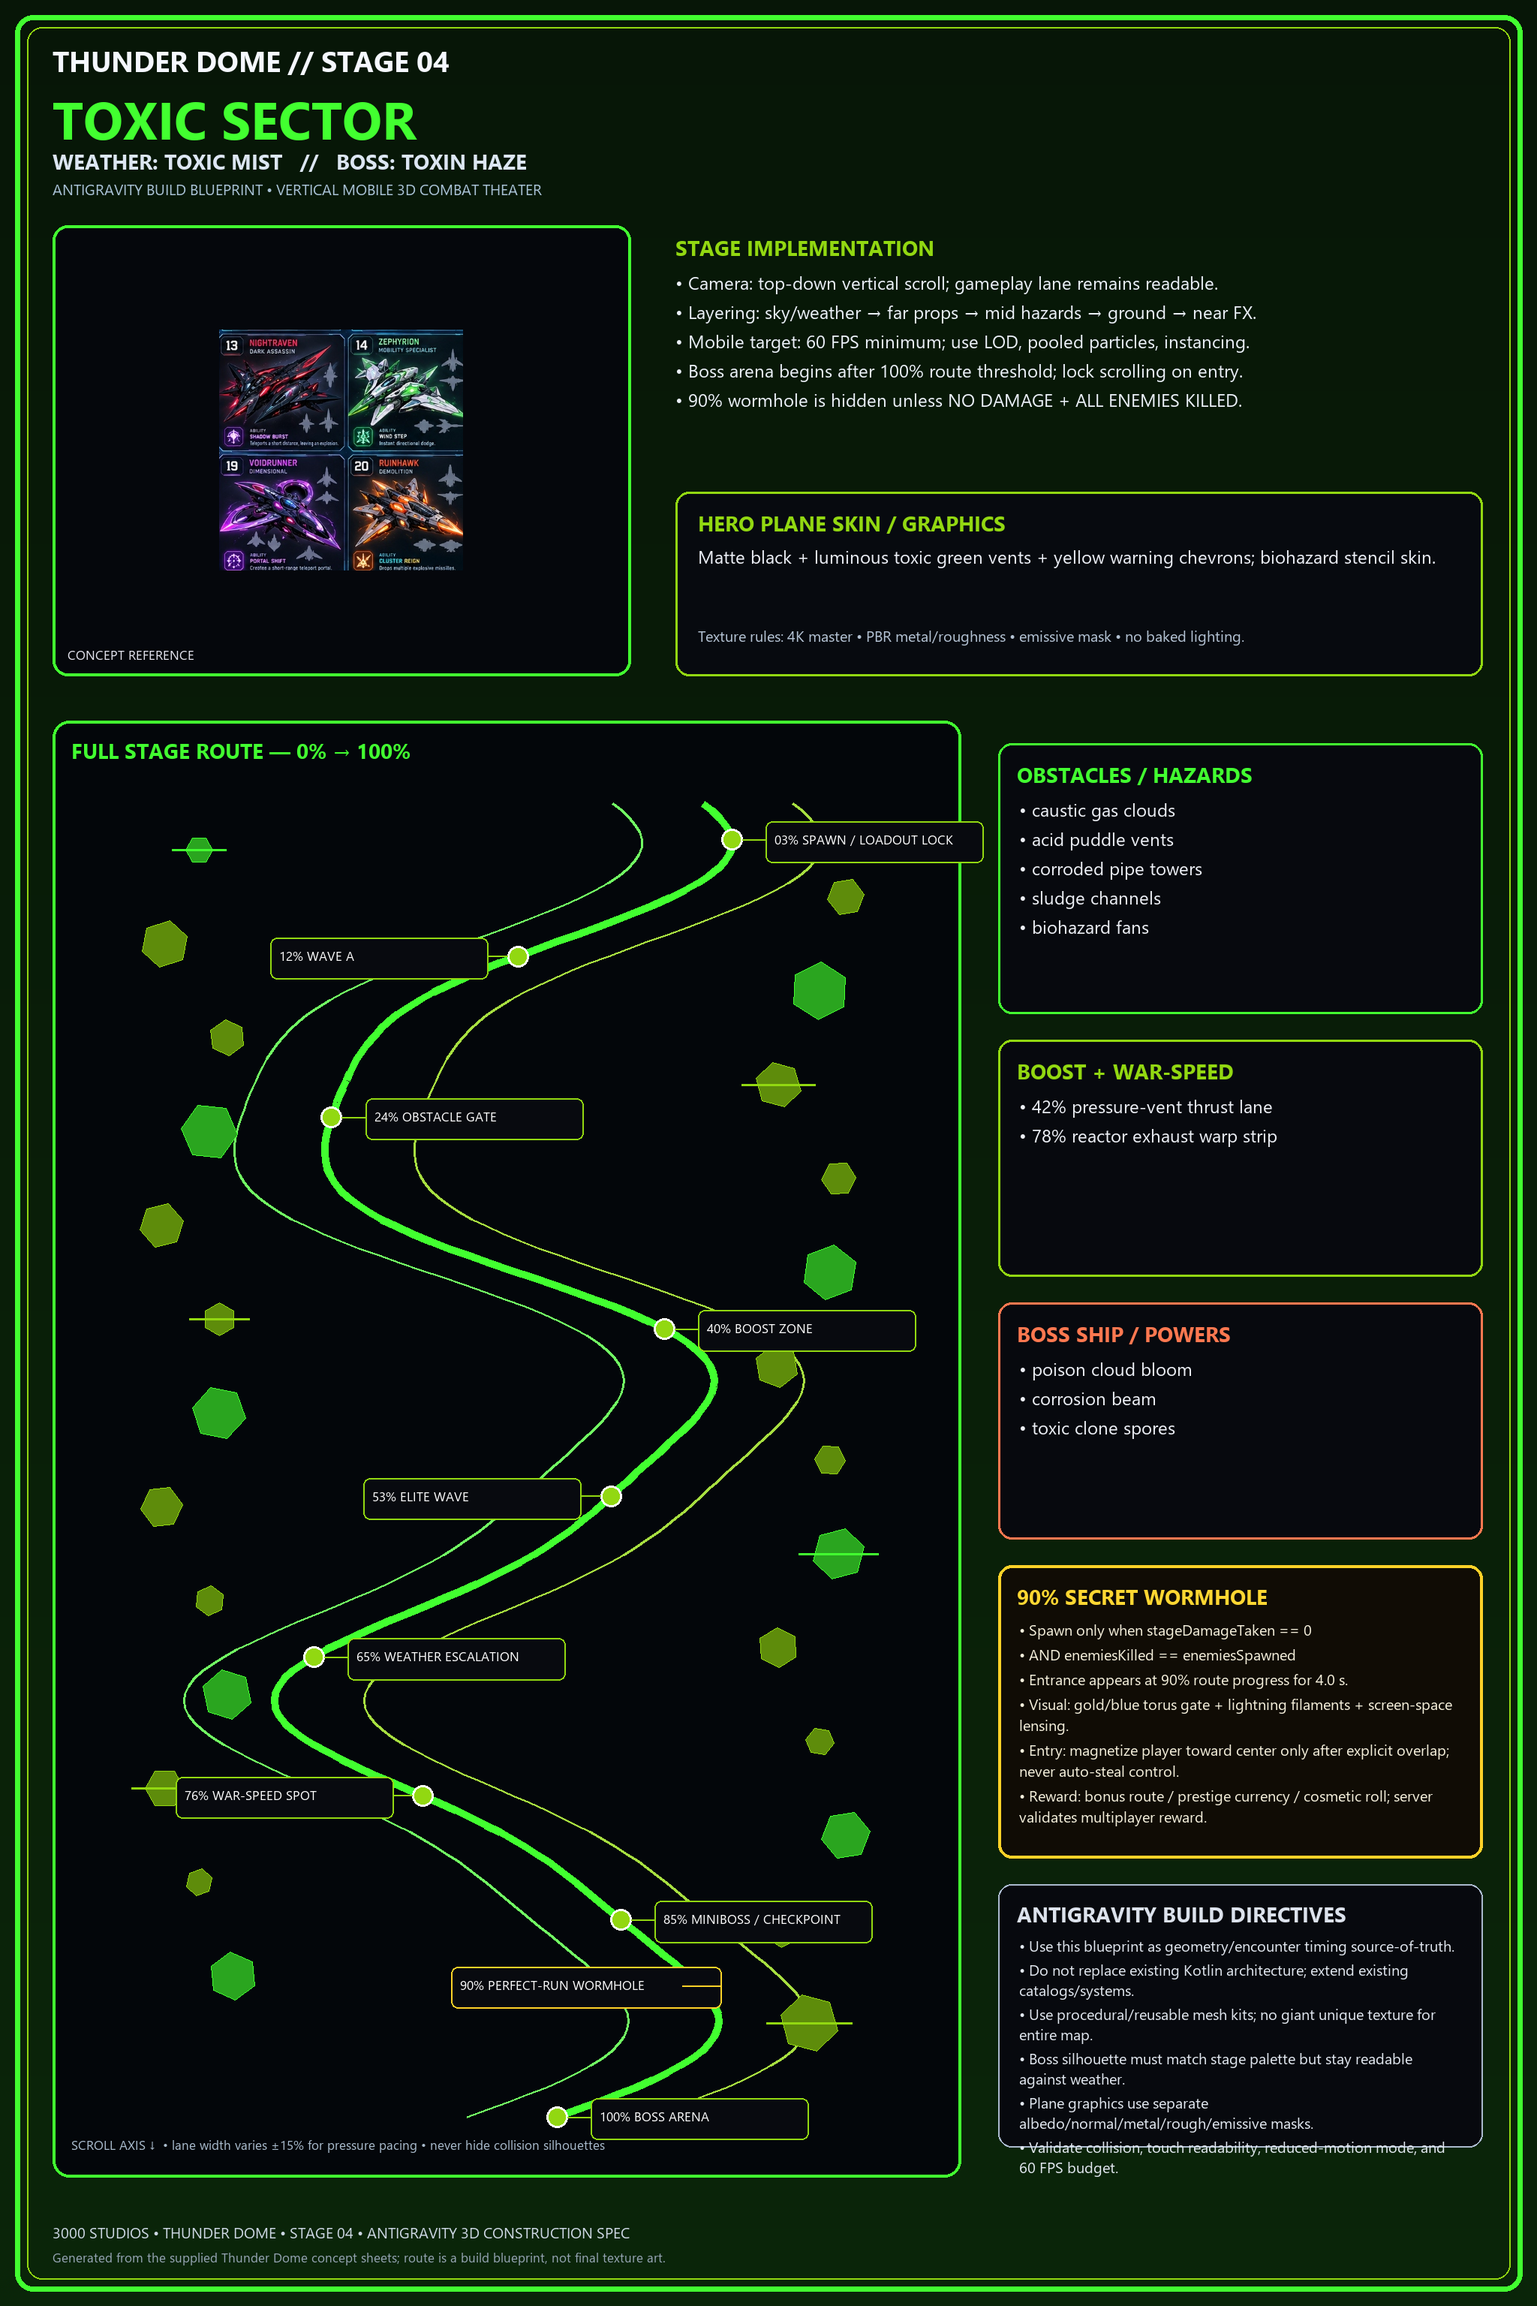
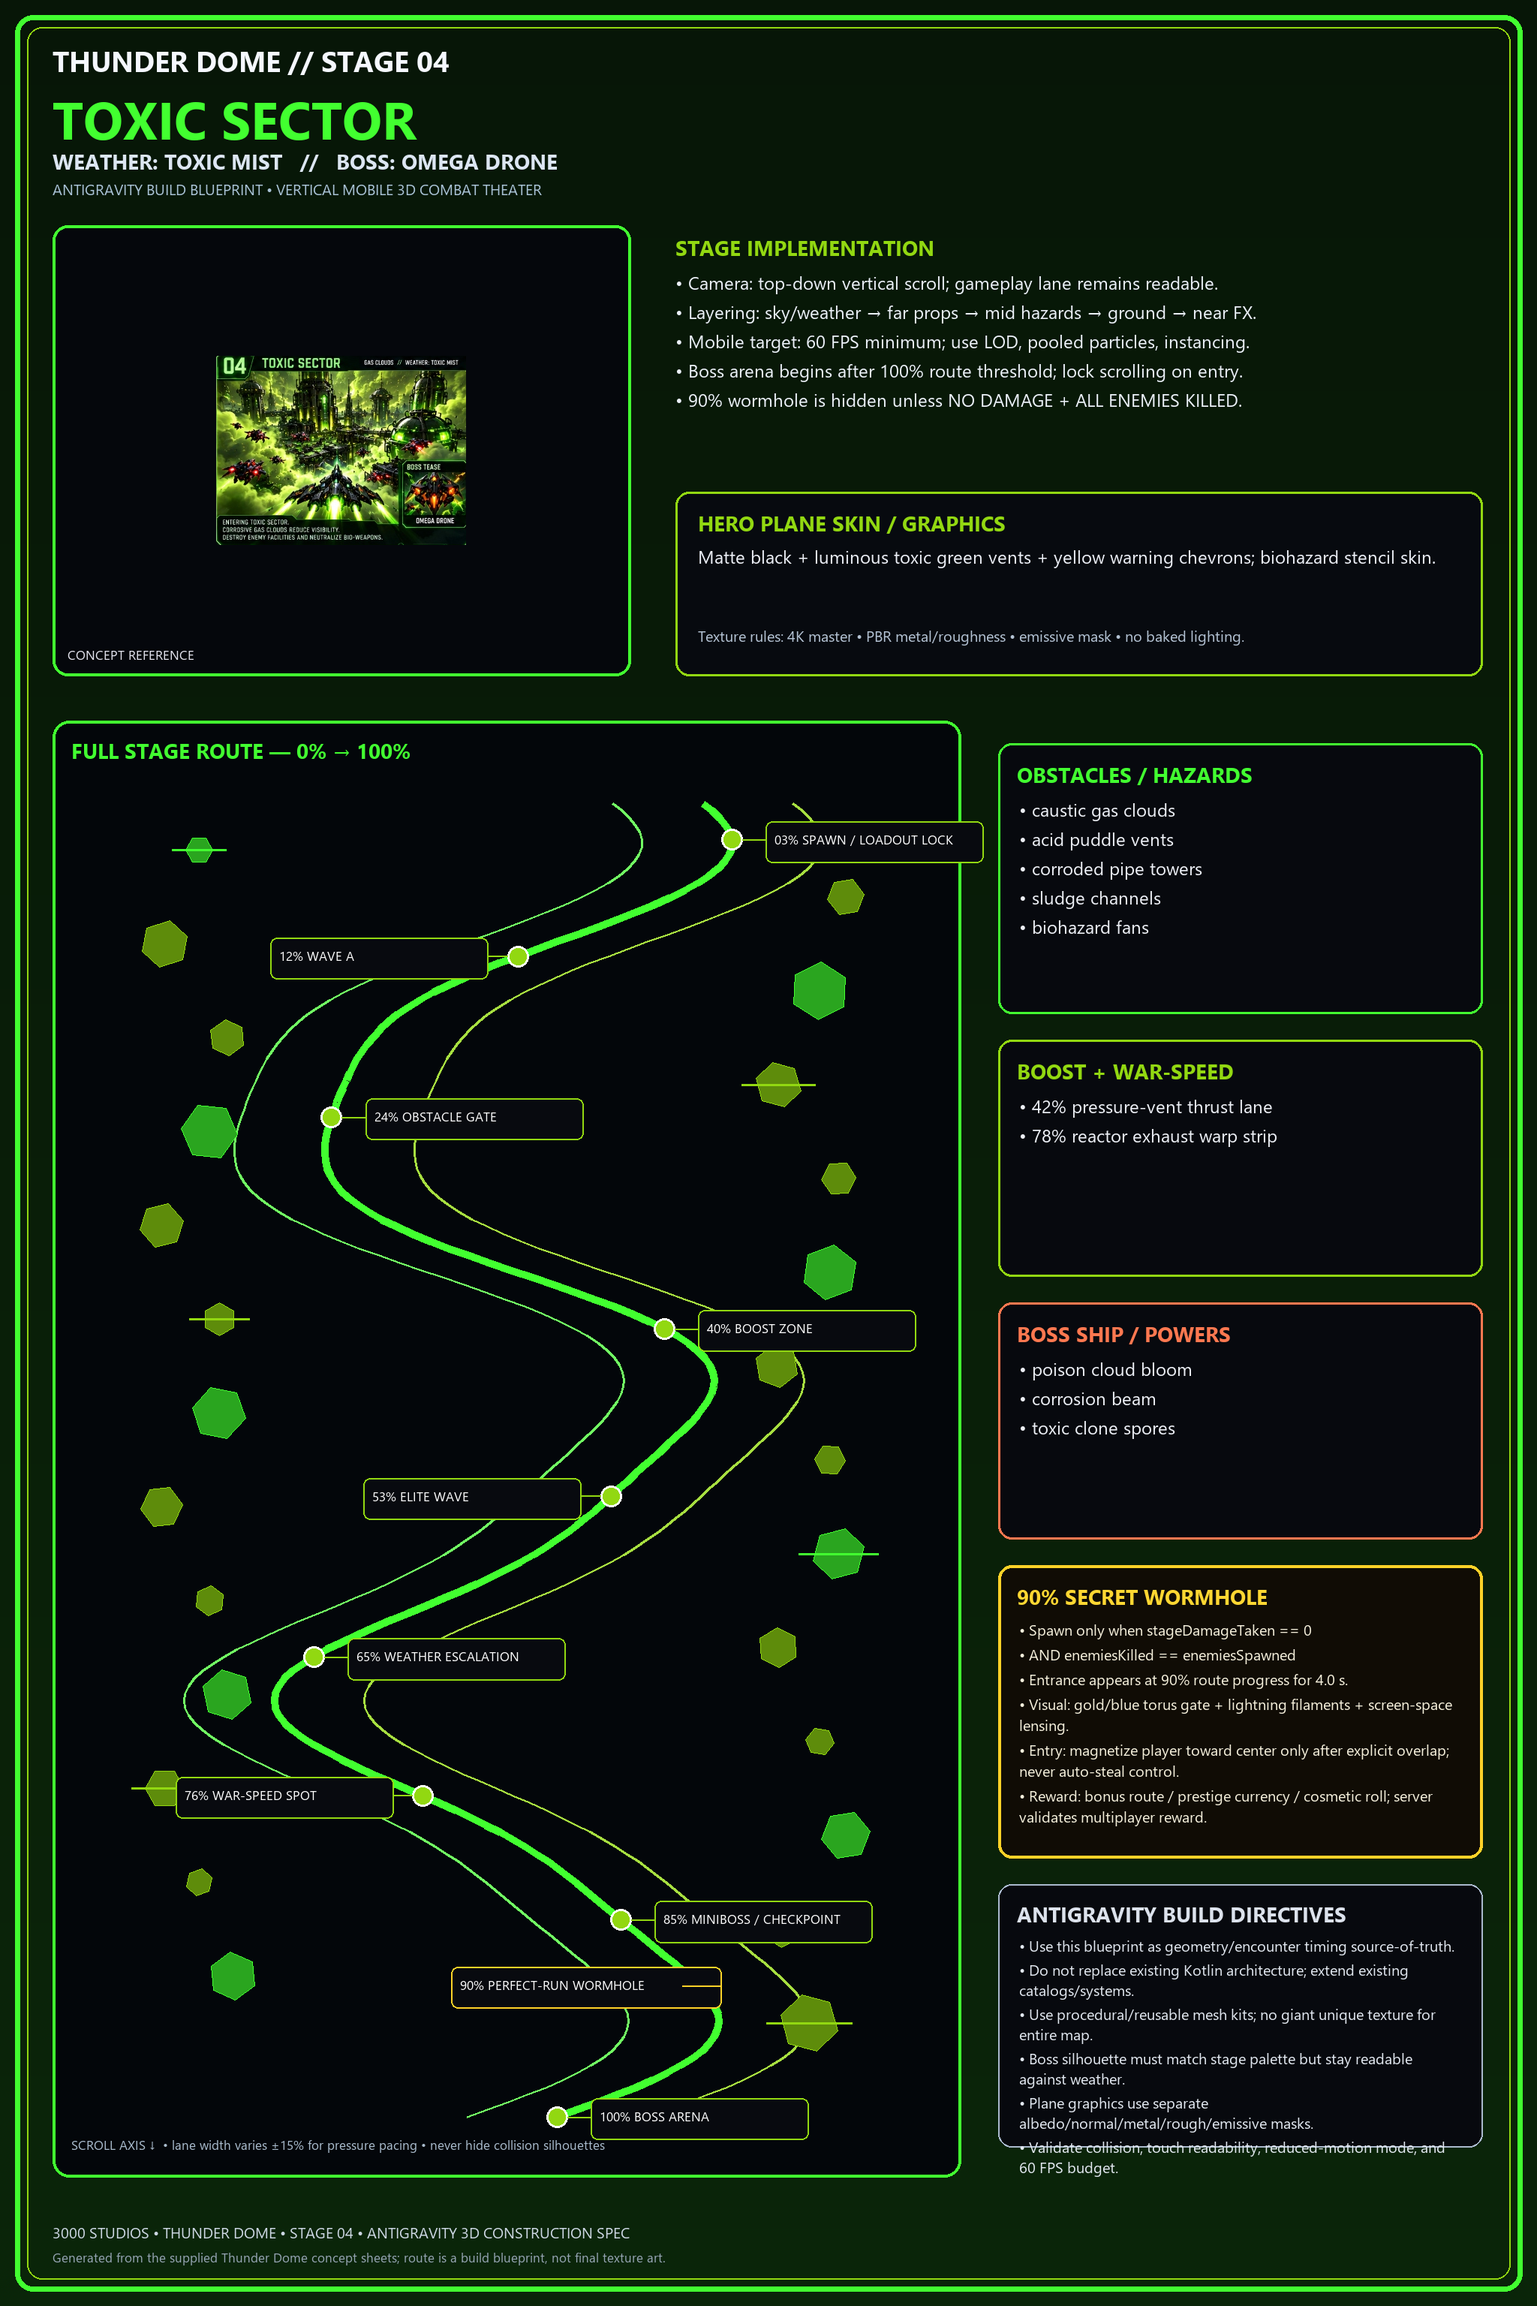
docs(blueprints): regenerate 24 full stage blueprints with official 3000 Studios storyboard artwork

Changed region(s): [[0.125, 0.125, 0.3125, 0.25], [0.2812, 0.0625, 0.3438, 0.0938]]

diff --git a/generate_blueprints.py b/generate_blueprints.py
@@ -11,12 +11,12 @@ ARTIFACT_OUT.mkdir(parents=True, exist_ok=True)
 
 USER_UPLOADED_DIR = Path(r"C:\Users\MrJws\.gemini\antigravity\brain\15baa7c6-3701-4d45-8501-acc79ffd3170\.user_uploaded")
 
-# User-supplied reference sheets or uploaded media
+# User-supplied reference sheets
 sheets = {
-    (1,6): USER_UPLOADED_DIR / "media_1790625923952.jpg",
-    (7,12): USER_UPLOADED_DIR / "media_1790625940997.jpg",
-    (13,18): USER_UPLOADED_DIR / "media_1790625943004.jpg",
-    (19,24): USER_UPLOADED_DIR / "media_1790761241420.jpg",
+    (1,6): USER_UPLOADED_DIR / "media_1790893492205.jpg",   # Cinematic Cutscenes Stages 01-06
+    (7,12): USER_UPLOADED_DIR / "media_1790893492167.jpg",  # Cinematic Cutscenes Stages 07-12
+    (13,18): USER_UPLOADED_DIR / "media_1790893492188.jpg", # Cinematic Cutscenes Stages 13-18
+    (19,24): USER_UPLOADED_DIR / "media_1790893492229.jpg", # Showcase, Nexus Obliterator & 24 Stages
 }
 
 # Fonts
@@ -45,25 +45,25 @@ F_TINY = load_font(17, False)
 F_TAG = load_font(22, True)
 
 stages = [
-    dict(n=1, name="NEON OUTPOST", weather="NEON RAIN", boss="NEON OVERLORD",
+    dict(n=1, name="NEON OUTPOST", weather="NEON RAIN", boss="SHADOW WRAITH",
          palette=("#08121E","#00D9FF","#FF2C9C","#2478FF","#7B2CFF"),
          obstacles=["AA turret nests","holo-billboard canyon","laser-road gates","wet rooftop pylons","drone traffic"],
          speed=["40% cyan booster lane","76% rail-sling war-speed strip"],
          boss_abilities=["crossfire laser lattice","hologram decoy wings","radial micro-missile burst"],
          hero="Black chrome + cyan edge light + magenta circuit filigree; reflective wet-look clearcoat."),
-    dict(n=2, name="ASTEROID BELT", weather="SPACE DUST", boss="GOLIATH DREADNOUGHT",
+    dict(n=2, name="ASTEROID BELT", weather="SPACE DUST", boss="BLADE STORM",
          palette=("#120B08","#D65A0A","#FF7A00","#6E2AD8","#2A221F"),
          obstacles=["rotating asteroid clusters","magnetic purple mines","cratered rock arches","debris fields","tumbling boulders"],
          speed=["38% debris slingshot","72% twin-asteroid gravity boost"],
          boss_abilities=["broadside cannon walls","gravity tractor cone","armor-plate break phases"],
          hero="Gunmetal hull + amber hazard stripes + violet anti-grav cores; chipped rock-scar decals."),
-    dict(n=3, name="VOID GATE", weather="VOID WARP", boss="VOID STALKER",
+    dict(n=3, name="VOID GATE", weather="VOID WARP", boss="NEON PHANTOM",
          palette=("#09020F","#8A2BE2","#FF21D6","#5D35B8","#050505"),
          obstacles=["gravity shear rings","void spike corridors","warp-orb mines","fractured obsidian slabs","portal turbulence"],
          speed=["34% portal sling","74% vortex acceleration tunnel"],
          boss_abilities=["teleport ambush","void clone split","screen-edge gravity scythe"],
          hero="Obsidian ceramic + violet plasma veins + magenta portal glyphs; starfield panel texture."),
-    dict(n=4, name="TOXIC SECTOR", weather="TOXIC MIST", boss="TOXIN HAZE",
+    dict(n=4, name="TOXIC SECTOR", weather="TOXIC MIST", boss="OMEGA DRONE",
          palette=("#061006","#42FF30","#92D811","#D8EA23","#121212"),
          obstacles=["caustic gas clouds","acid puddle vents","corroded pipe towers","sludge channels","biohazard fans"],
          speed=["42% pressure-vent thrust lane","78% reactor exhaust warp strip"],
@@ -81,25 +81,25 @@ stages = [
          speed=["41% plasma draft","77% corona slingshot"],
          boss_abilities=["piercing solar beam","burning trail cage","corona overload pulse"],
          hero="Mirror black + molten gold trim + orange heat vents; sunburst wing graphics with ember clearcoat."),
-    dict(n=7, name="CYBER CITY", weather="NEON RAIN", boss="VOID REAPER",
+    dict(n=7, name="CYBER CITY", weather="NEON RAIN", boss="CYBER HAWK",
          palette=("#070916","#FF22CB","#00CFFF","#3B45FF","#7E2FB3"),
          obstacles=["skyscraper canyon","traffic drones","holo-ad minefields","service bridges","electric rooftop fences"],
          speed=["39% maglev corridor","73% neon transit warp lane"],
          boss_abilities=["black-hole pull","void orb barrage","shadow dash ram"],
          hero="Carbon fiber + cyan/magenta racing graphics + animated equalizer strips along the fuselage."),
-    dict(n=8, name="JUNKYARD", weather="RUST STORM", boss="BLADE STORM",
+    dict(n=8, name="JUNKYARD", weather="RUST STORM", boss="OMEGA DRONE",
          palette=("#130D08","#F36B17","#8C3D1F","#64412B","#181818"),
          obstacles=["sawblade debris","capital hull wrecks","scrap ambushes","explosive piles","crane arms"],
          speed=["35% salvage-catapult lane","70% turbine-corridor boost"],
          boss_abilities=["spinning blade halo","ricochet shot","scrap cyclone"],
          hero="Weathered titanium + orange weld seams + stenciled serial numbers; patchwork armored panels."),
-    dict(n=9, name="BLACK HOLE", weather="GRAVITY PULL", boss="NEON PHANTOM",
+    dict(n=9, name="BLACK HOLE", weather="GRAVITY PULL", boss="VOID REAPER",
          palette=("#05030A","#6E35E7","#A647FF","#341D78","#000000"),
          obstacles=["singularity pull zones","lensing rings","distorted asteroids","event-horizon lanes","tidal debris"],
          speed=["43% gravity-assist arc","79% horizon-surf warp burst"],
          boss_abilities=["phase dash","neon laser sweep","afterimage swarm"],
          hero="Ultra-black hull + purple lensing rings + violet star specks; curved gravitational distortion graphics."),
-    dict(n=10, name="LAVA PLANET", weather="LAVA RAIN", boss="OMEGA DRONE",
+    dict(n=10, name="LAVA PLANET", weather="LAVA RAIN", boss="MAGMA BRUTE",
          palette=("#130500","#FF5218","#E62717","#3A3635","#050505"),
          obstacles=["magma bombs","lava eruptions","basalt spires","factory platforms","heat distortion pockets"],
          speed=["37% magma updraft lane","74% furnace-jet warp strip"],
@@ -117,13 +117,13 @@ stages = [
          speed=["33% dune crest tailwind","69% canyon vent war-speed"],
          boss_abilities=["sand tornado pull","razor-dart spread","burrow strike"],
          hero="Desert tan + black belly + gold edge guards; viper-scale wing graphics and dust-worn nose."),
-    dict(n=13, name="BIO LABS", weather="BIO SPORES", boss="BIOSYNTH HYDRA",
+    dict(n=13, name="BIO LABS", weather="BIO SPORES", boss="ALIEN JUNGLE",
          palette=("#071008","#6FE51C","#A8E72B","#1F6D38","#D8E74A"),
          obstacles=["mutagen domes","glass tube towers","spore clouds","bio-weapon pods","slime channels"],
          speed=["41% nutrient-flow booster","77% gene-tube acceleration rail"],
          boss_abilities=["multi-head plasma spit","regeneration phase","bio missile homing swarm"],
          hero="Gloss black + luminous green vein lattice + translucent bio-cells; gene-helix wing markings."),
-    dict(n=14, name="UNDERWATER RUINS", weather="HYDRO STREAM", boss="AQUA STRIKE",
+    dict(n=14, name="UNDERWATER RUINS", weather="HYDRO STREAM", boss="STORM LORD",
          palette=("#051620","#0DAED0","#53E7FF","#1B627C","#87F0ED"),
          obstacles=["sunken towers","hydro current lanes","bubble mines","caustic pillars","collapsed arches"],
          speed=["36% current jet","72% hydro-tunnel slingshot"],
@@ -135,19 +135,19 @@ stages = [
          speed=["39% jetstream lane","75% celestial launch beam"],
          boss_abilities=["divine shield","holy pulse","wing-lance rain"],
          hero="Pearl white + sky-blue inlays + gold micro-trim; feathered geometric graphics on wings."),
-    dict(n=16, name="MACHINE WORLD", weather="SMELTER ASH", boss="MAGMA BRUTE",
+    dict(n=16, name="MACHINE WORLD", weather="SMELTER ASH", boss="OMEGA DRONE",
          palette=("#120A07","#C94B18","#FF7A22","#633020","#181818"),
          obstacles=["crusher presses","moving belts","gear walls","molten drains","robotic foundry arms"],
          speed=["42% conveyor overdrive","78% smelter exhaust warp"],
          boss_abilities=["magma ball barrage","lava trail ram","hydraulic shockwave"],
          hero="Blackened steel + copper welds + hot orange mechanical glyphs; gear-tooth wing striping."),
-    dict(n=17, name="CRYSTAL CAVERNS", weather="CRYSTAL DUST", boss="CYBER HAWK",
+    dict(n=17, name="CRYSTAL CAVERNS", weather="CRYSTAL DUST", boss="QUANTUM SHIFT",
          palette=("#0B0715","#7A2AE8","#B44DFF","#34C9FF","#E0EAFF"),
          obstacles=["mirror crystal fields","laser reflections","shard avalanches","prism gates","fracture pits"],
          speed=["38% prism-refraction boost","73% crystal resonance warp"],
          boss_abilities=["target lock pursuit","missile swarm","reflective feather shield"],
          hero="Dark violet + iridescent crystal facets + cyan laser lines; holographic prismatic wing skin."),
-    dict(n=18, name="STORM FRONT", weather="LIGHTNING", boss="QUANTUM SHIFT",
+    dict(n=18, name="STORM FRONT", weather="LIGHTNING", boss="NEXUS OBLITERATOR",
          palette=("#090C1A","#6947D9","#A157FF","#48B7FF","#D6E7FF"),
          obstacles=["lightning curtains","EMP arcs","storm vortices","charged cloud walls","temporal turbulence"],
          speed=["40% thunderhead updraft","76% lightning-rail war-speed"],
@@ -210,20 +210,37 @@ def crop_stage_panel(stage_num):
         if a <= stage_num <= b and path.exists():
             try:
                 img = Image.open(path).convert("RGB")
-                idx = stage_num - a
-                col = idx % 3
-                row = idx // 3
                 w, h = img.size
-                top_margin = int(h * 0.08)
-                bottom_margin = int(h * 0.06)
-                usable_h = h - top_margin - bottom_margin
-                cell_w = w / 3
-                cell_h = usable_h / 2
-                x0 = int(col * cell_w + 8)
-                x1 = int((col+1) * cell_w - 8)
-                y0 = int(top_margin + row * cell_h + 5)
-                y1 = int(top_margin + (row+1) * cell_h - 5)
-                return img.crop((x0,y0,x1,y1))
+                idx = stage_num - a
+                
+                if (a,b) in [(1,6), (7,12), (13,18)]:
+                    # 3 columns x 2 rows
+                    col = idx % 3
+                    row = idx // 3
+                    top_margin = int(h * 0.086)
+                    bottom_margin = int(h * 0.02)
+                    usable_h = h - top_margin - bottom_margin
+                    cell_w = w / 3
+                    cell_h = usable_h / 2
+                    x0 = int(col * cell_w + 4)
+                    x1 = int((col+1) * cell_w - 4)
+                    y0 = int(top_margin + row * cell_h + 3)
+                    y1 = int(top_margin + (row+1) * cell_h - 3)
+                    return img.crop((x0,y0,x1,y1))
+                elif (a,b) == (19,24):
+                    # 4-quadrant promo sheet
+                    if stage_num == 24: # Nexus Obliterator Final Boss
+                        # Bottom Left quadrant
+                        return img.crop((10, int(h * 0.50), int(w * 0.50), h - 10))
+                    elif stage_num == 23: # Final Approach
+                        # Bottom Right quadrant
+                        return img.crop((int(w * 0.50), int(h * 0.50), w - 10, h - 10))
+                    elif stage_num in [21, 22]: # Dimension Rift / Citadel
+                        # Top Right quadrant (Multiplayer Battle)
+                        return img.crop((int(w * 0.50), 10, w - 10, int(h * 0.50)))
+                    else: # 19, 20 (Alien Jungle / Space Graveyard)
+                        # Top Left quadrant (24 Stages Showcase)
+                        return img.crop((10, 10, int(w * 0.50), int(h * 0.50)))
             except Exception as e:
                 print(f"Error cropping panel for stage {stage_num}: {e}")
     
@@ -262,7 +279,7 @@ def wrap(draw, text, font, maxw):
     return lines
 
 specs = []
-print(f"Generating 24 Full Stage Blueprints...")
+print(f"Generating 24 Full Stage Blueprints with official 3000 Studios reference art...")
 
 for s in stages:
     W,H = 2048,3072
@@ -293,7 +310,8 @@ for s in stages:
     panel_box=(70,300,840,900)
     if panel:
         p=panel.copy()
-        p.thumbnail((panel_box[2]-panel_box[0], panel_box[3]-panel_box[1]))
+        # Scale to fit box preserving aspect ratio
+        p.thumbnail((panel_box[2]-panel_box[0] - 16, panel_box[3]-panel_box[1] - 16))
         px=panel_box[0]+(panel_box[2]-panel_box[0]-p.width)//2
         py=panel_box[1]+(panel_box[3]-panel_box[1]-p.height)//2
         draw.rounded_rectangle(panel_box, radius=20, fill=(5,7,12), outline=accent, width=4)
@@ -503,5 +521,5 @@ with zipfile.ZipFile(zip_path, "w", compression=zipfile.ZIP_DEFLATED, compressle
 # Also copy zip to artifacts
 shutil.copy(zip_path, ARTIFACT_OUT.parent / "Thunder_Dome_24_Full_Stage_Layouts_Antigravity.zip")
 
-print(f"\nSUCCESS: Created {len(stages)} annotated full-stage PNGs.")
+print(f"\nSUCCESS: Created {len(stages)} annotated full-stage PNGs with official concept panels.")
 print(f"Archive saved to: {zip_path}")
